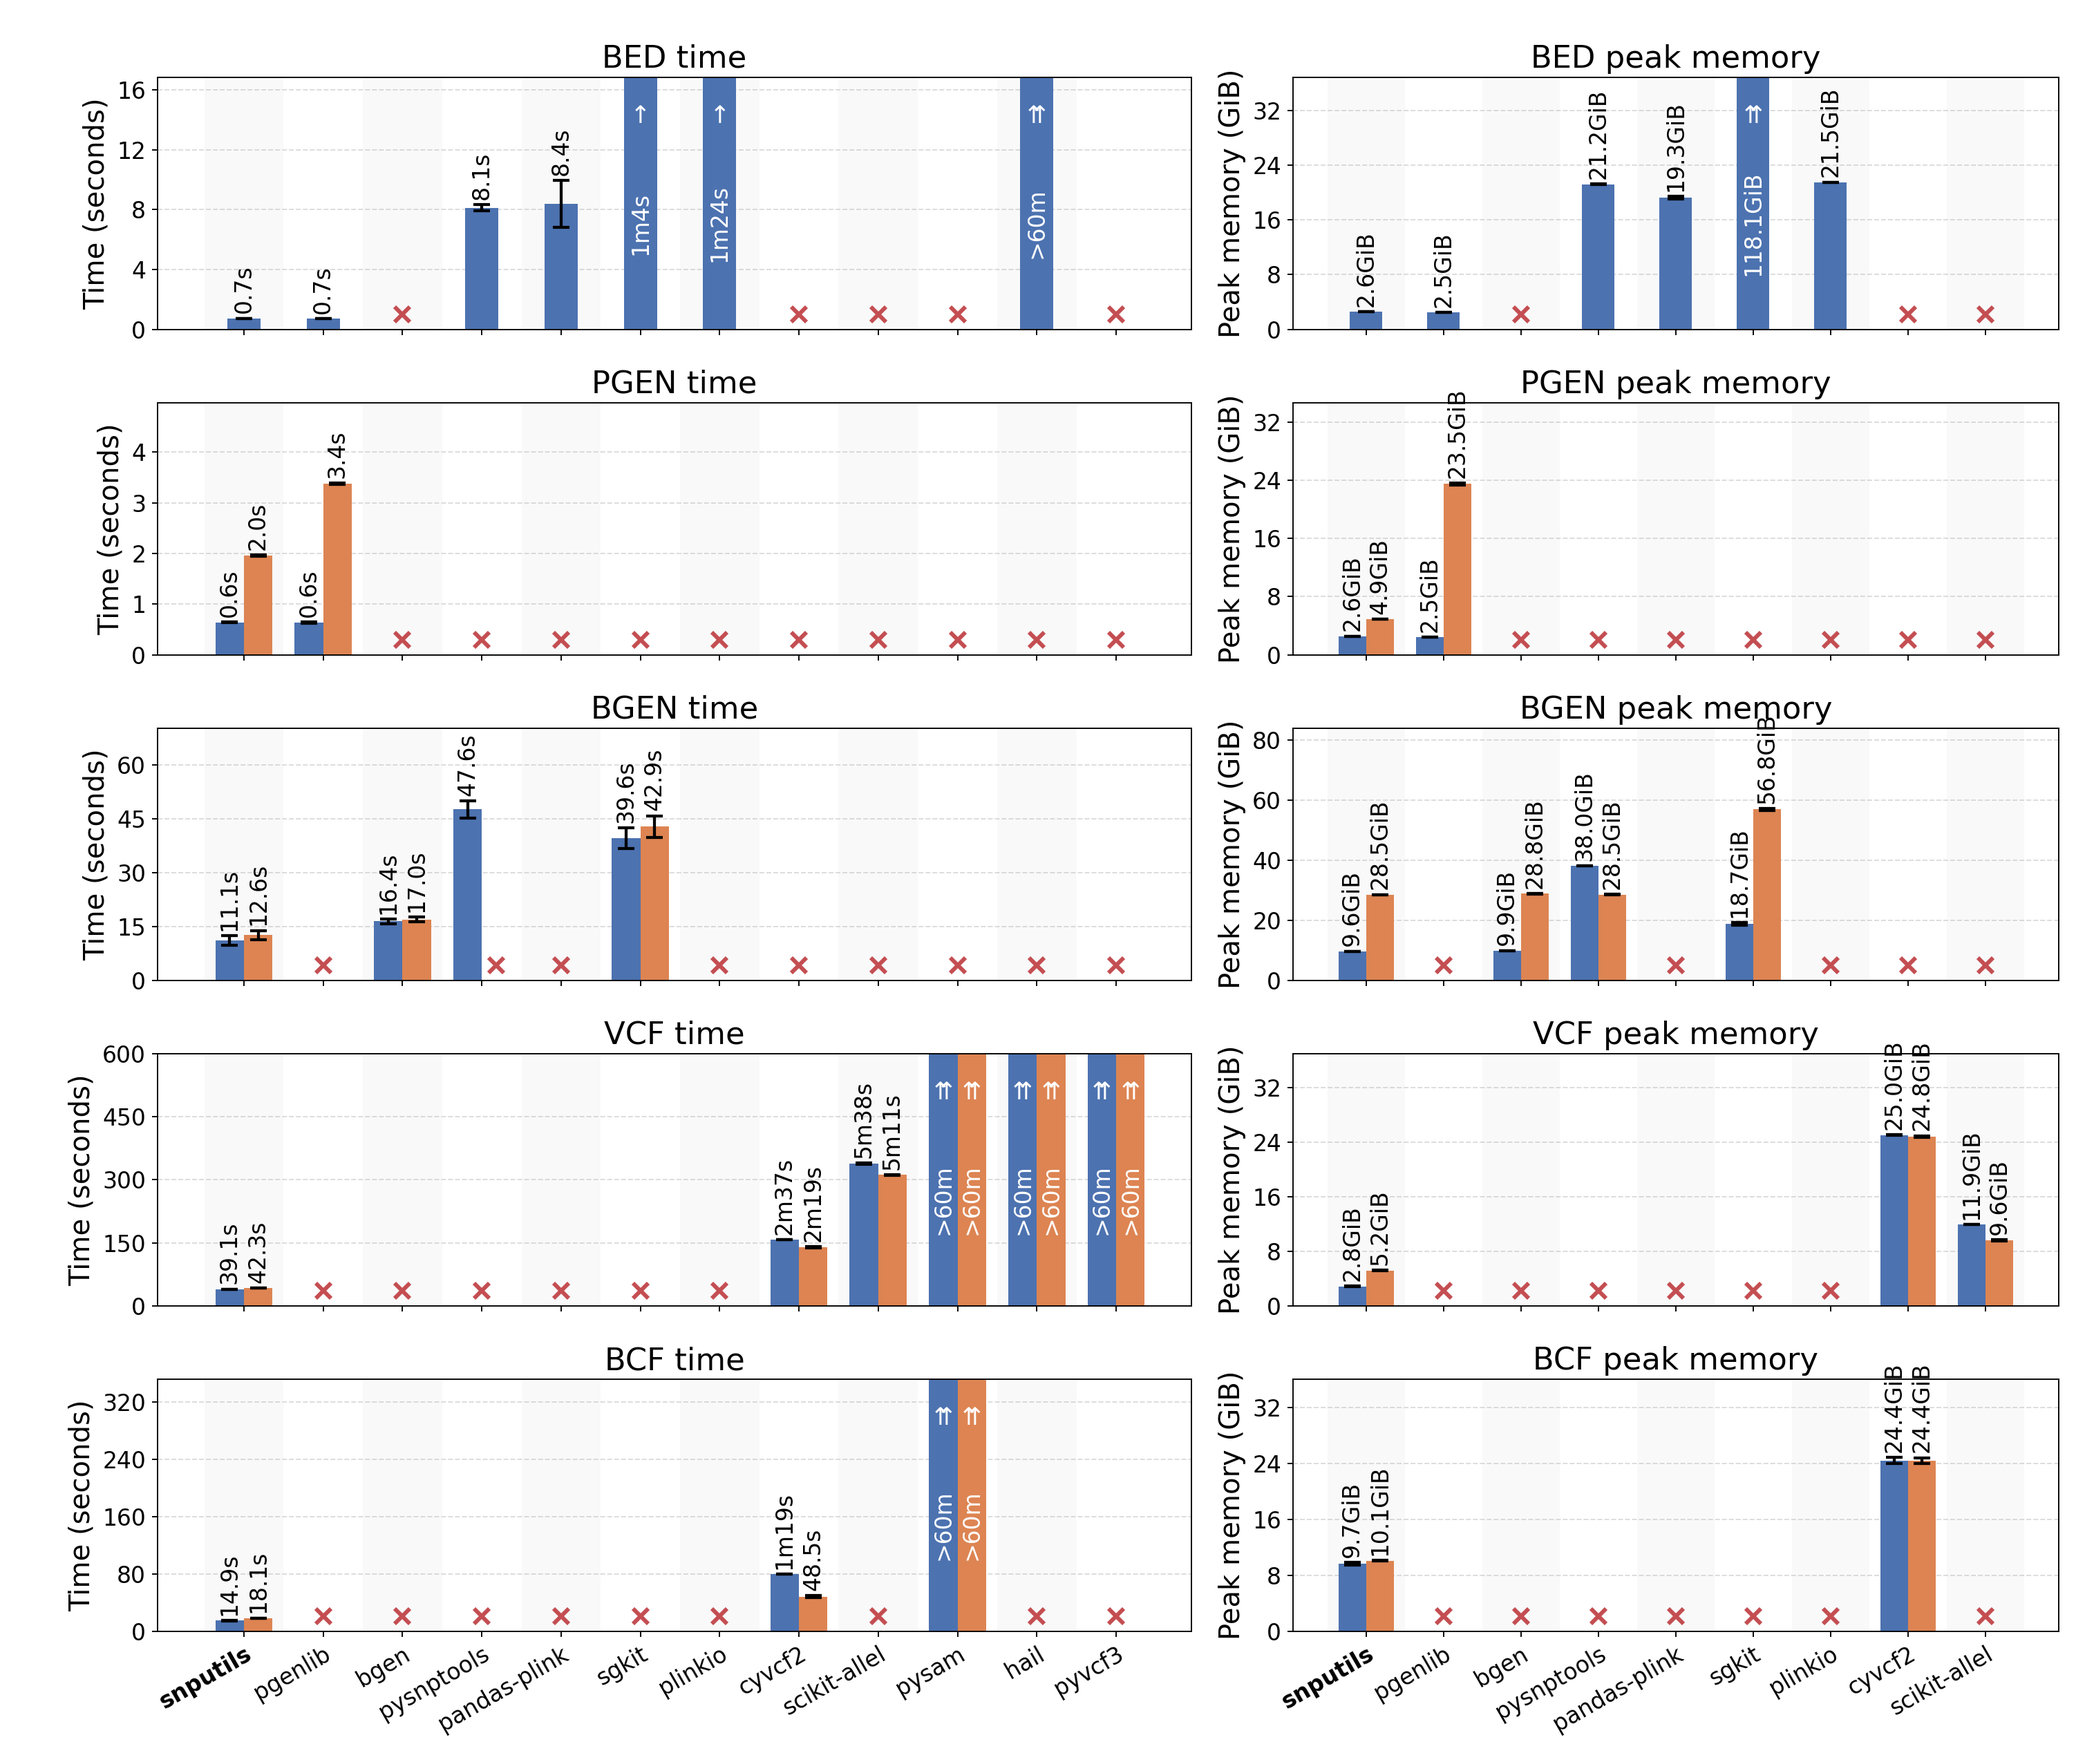
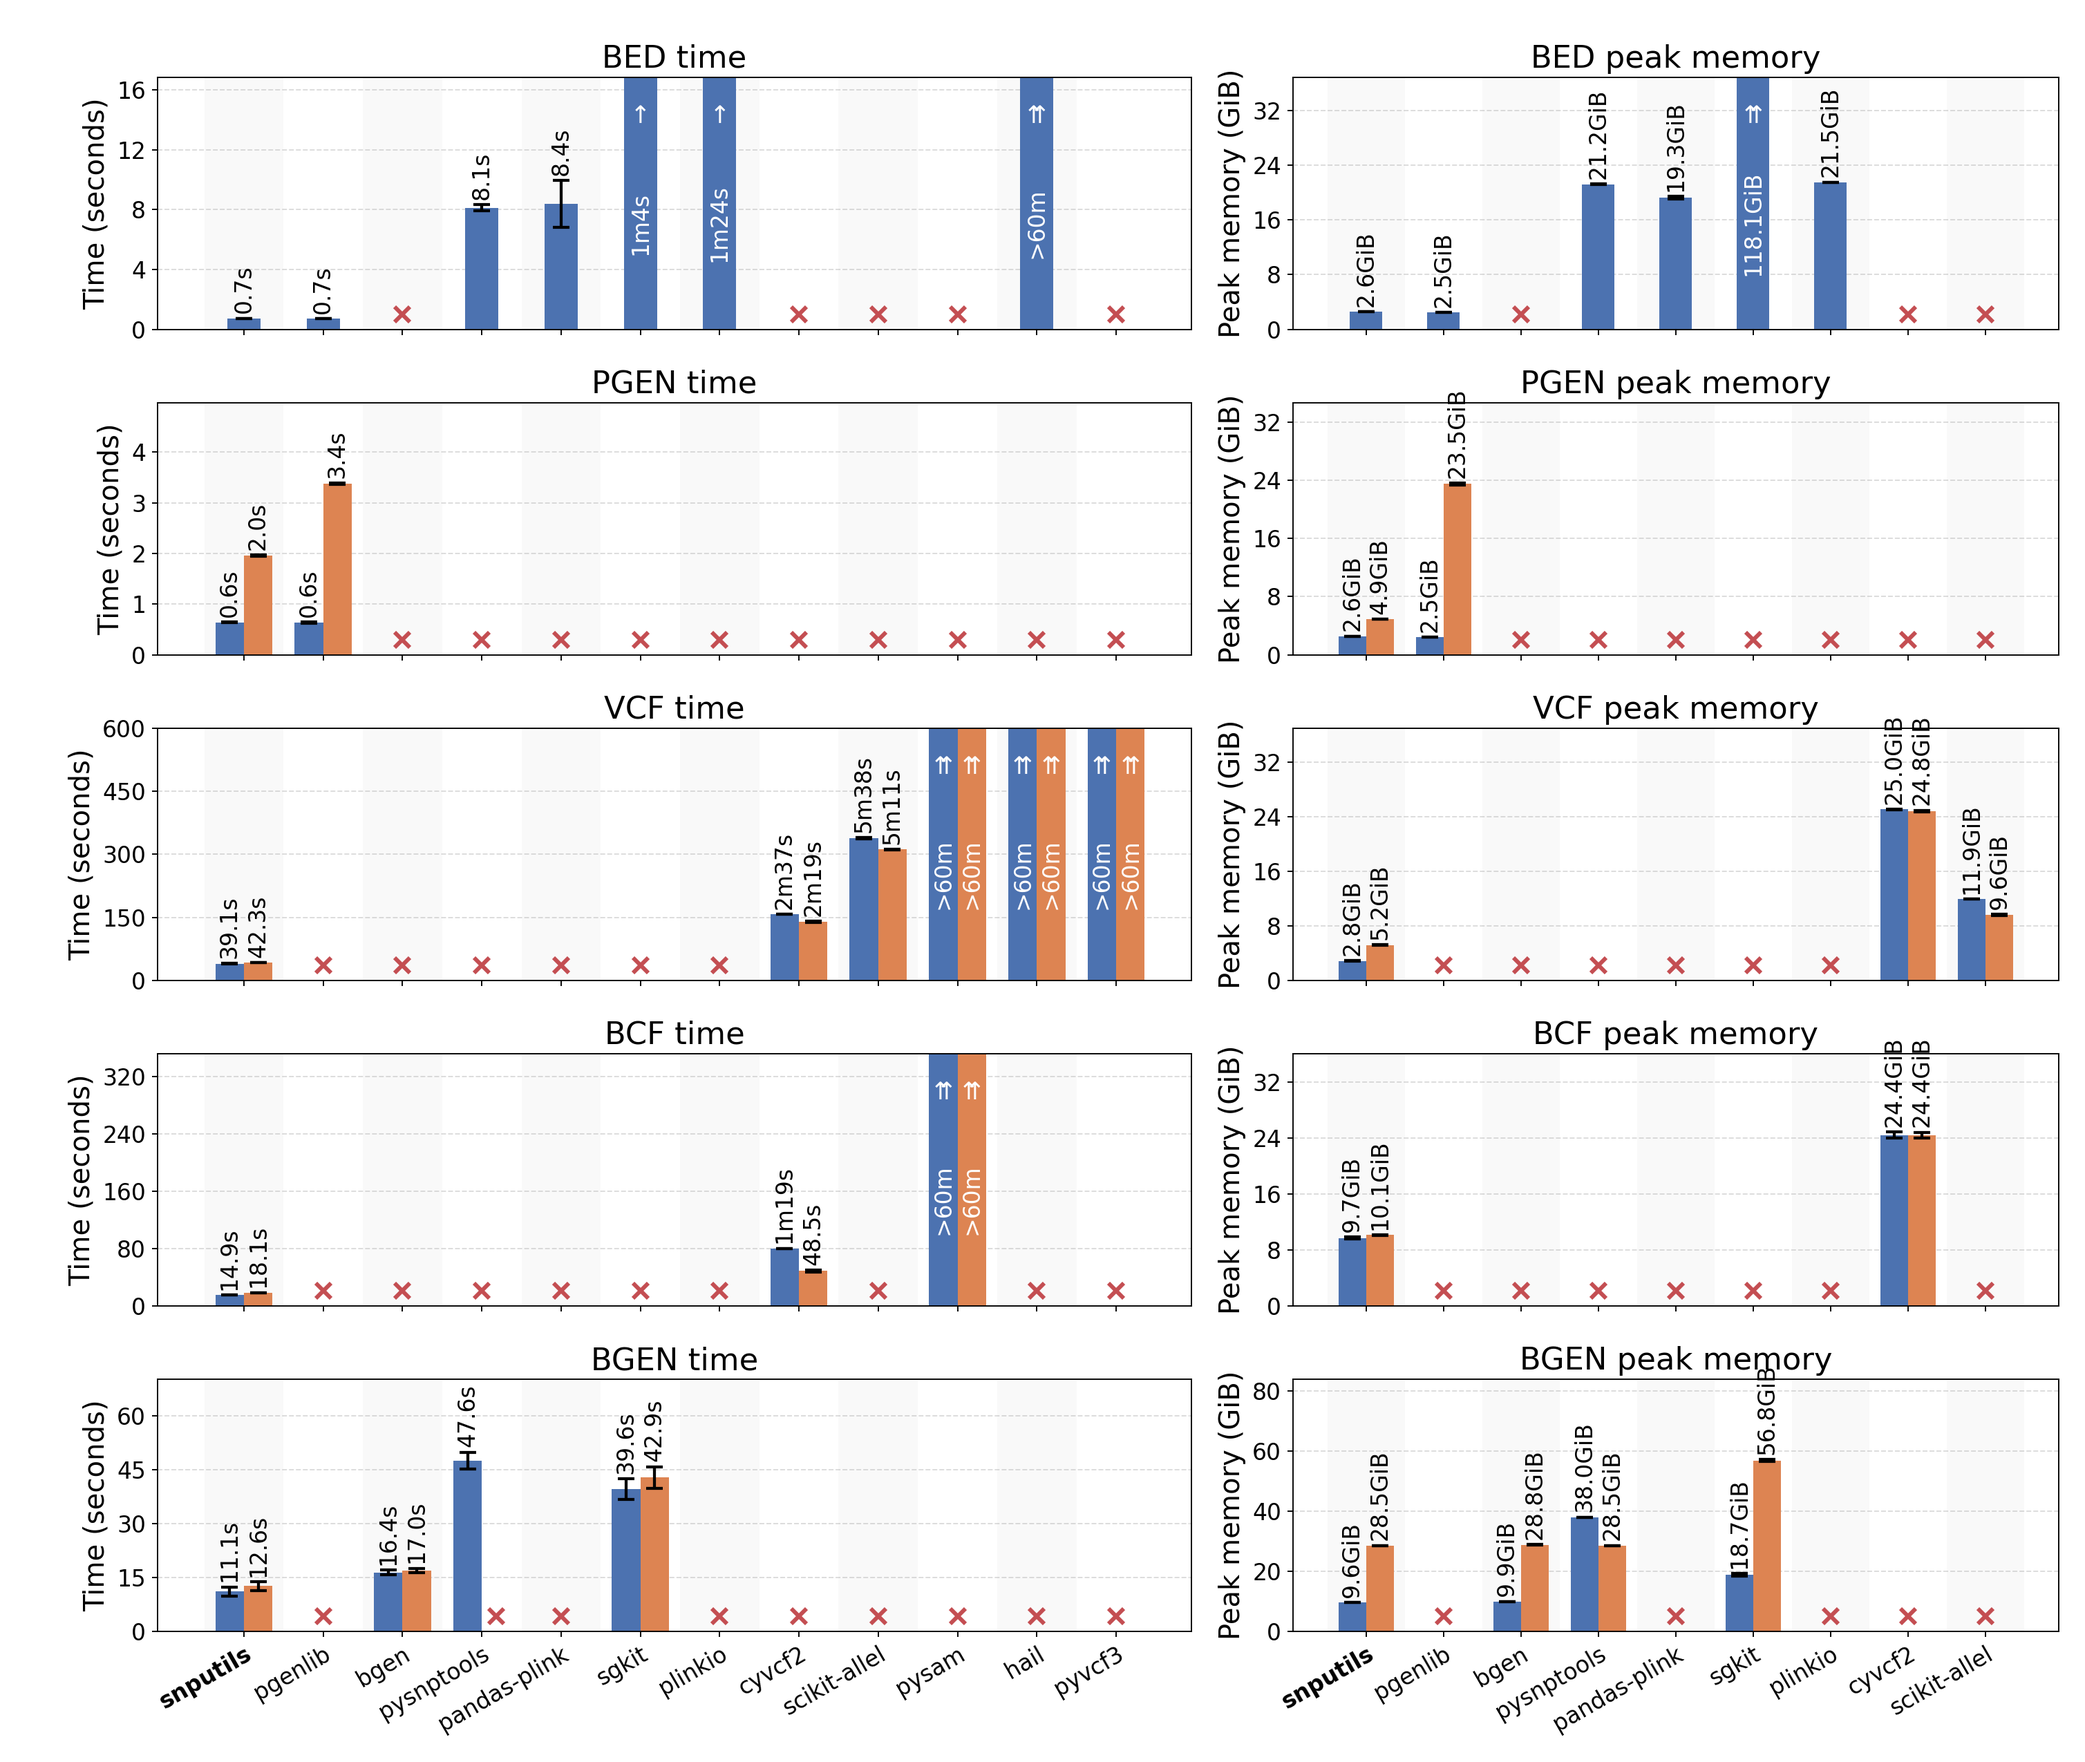
reorder benchmark plots

diff --git a/benchmark/plot_time_memory.py b/benchmark/plot_time_memory.py
@@ -9,7 +9,7 @@ from matplotlib.ticker import MaxNLocator
 import numpy as np
 
 
-DEFAULT_FORMATS = ("bed", "pgen", "bgen", "vcf", "bcf")
+DEFAULT_FORMATS = ("bed", "pgen", "vcf", "bcf", "bgen")
 DEFAULT_TIME_NAMES = (
     "snputils",
     "pgenlib",
